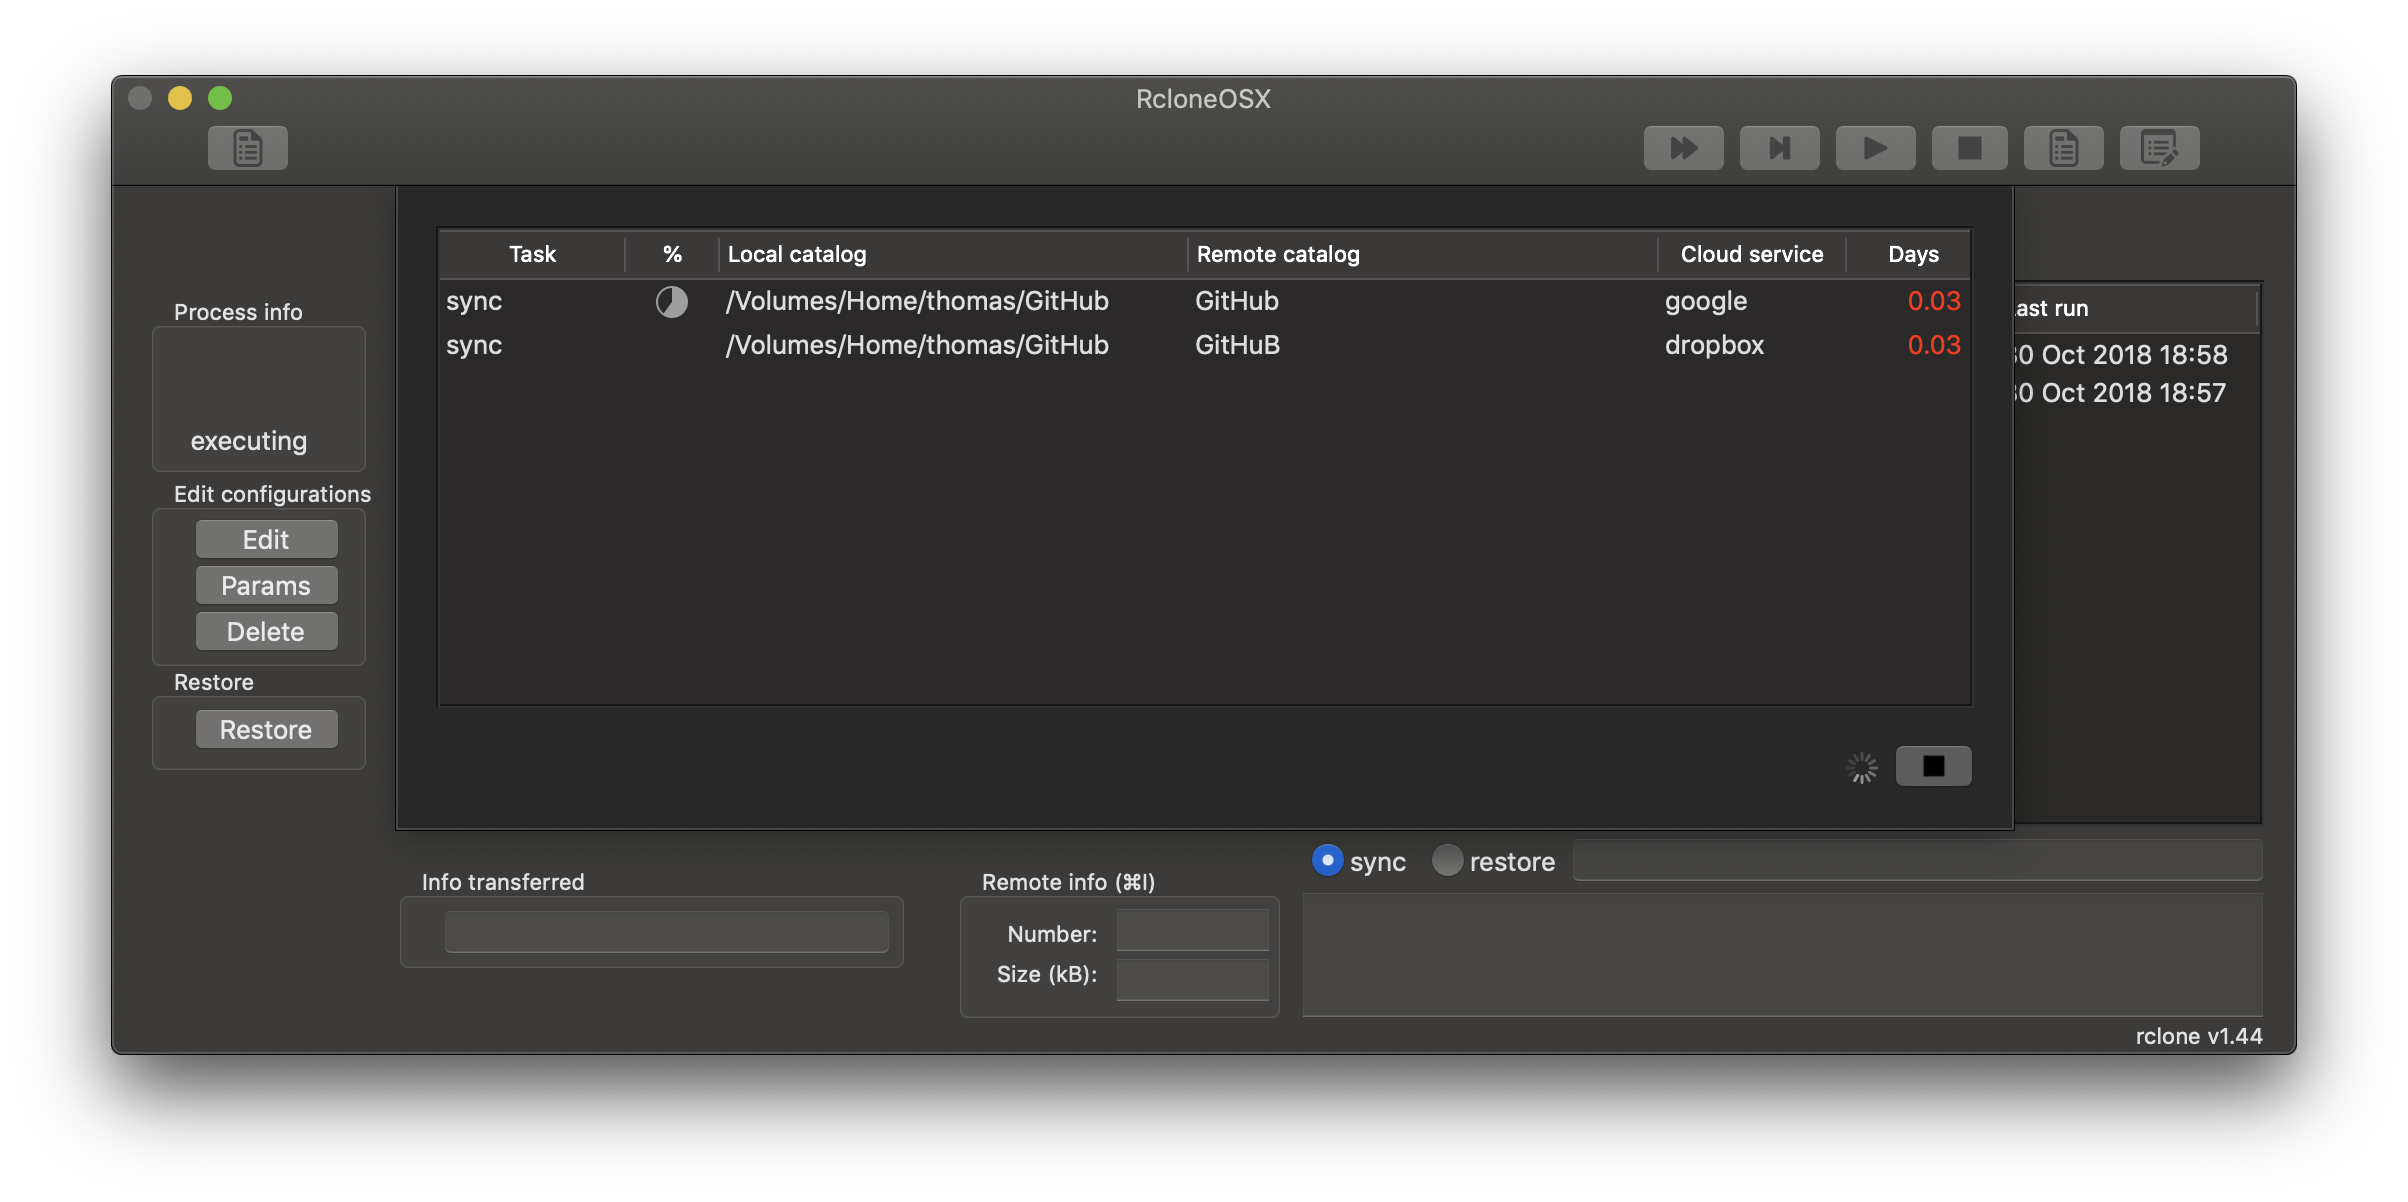
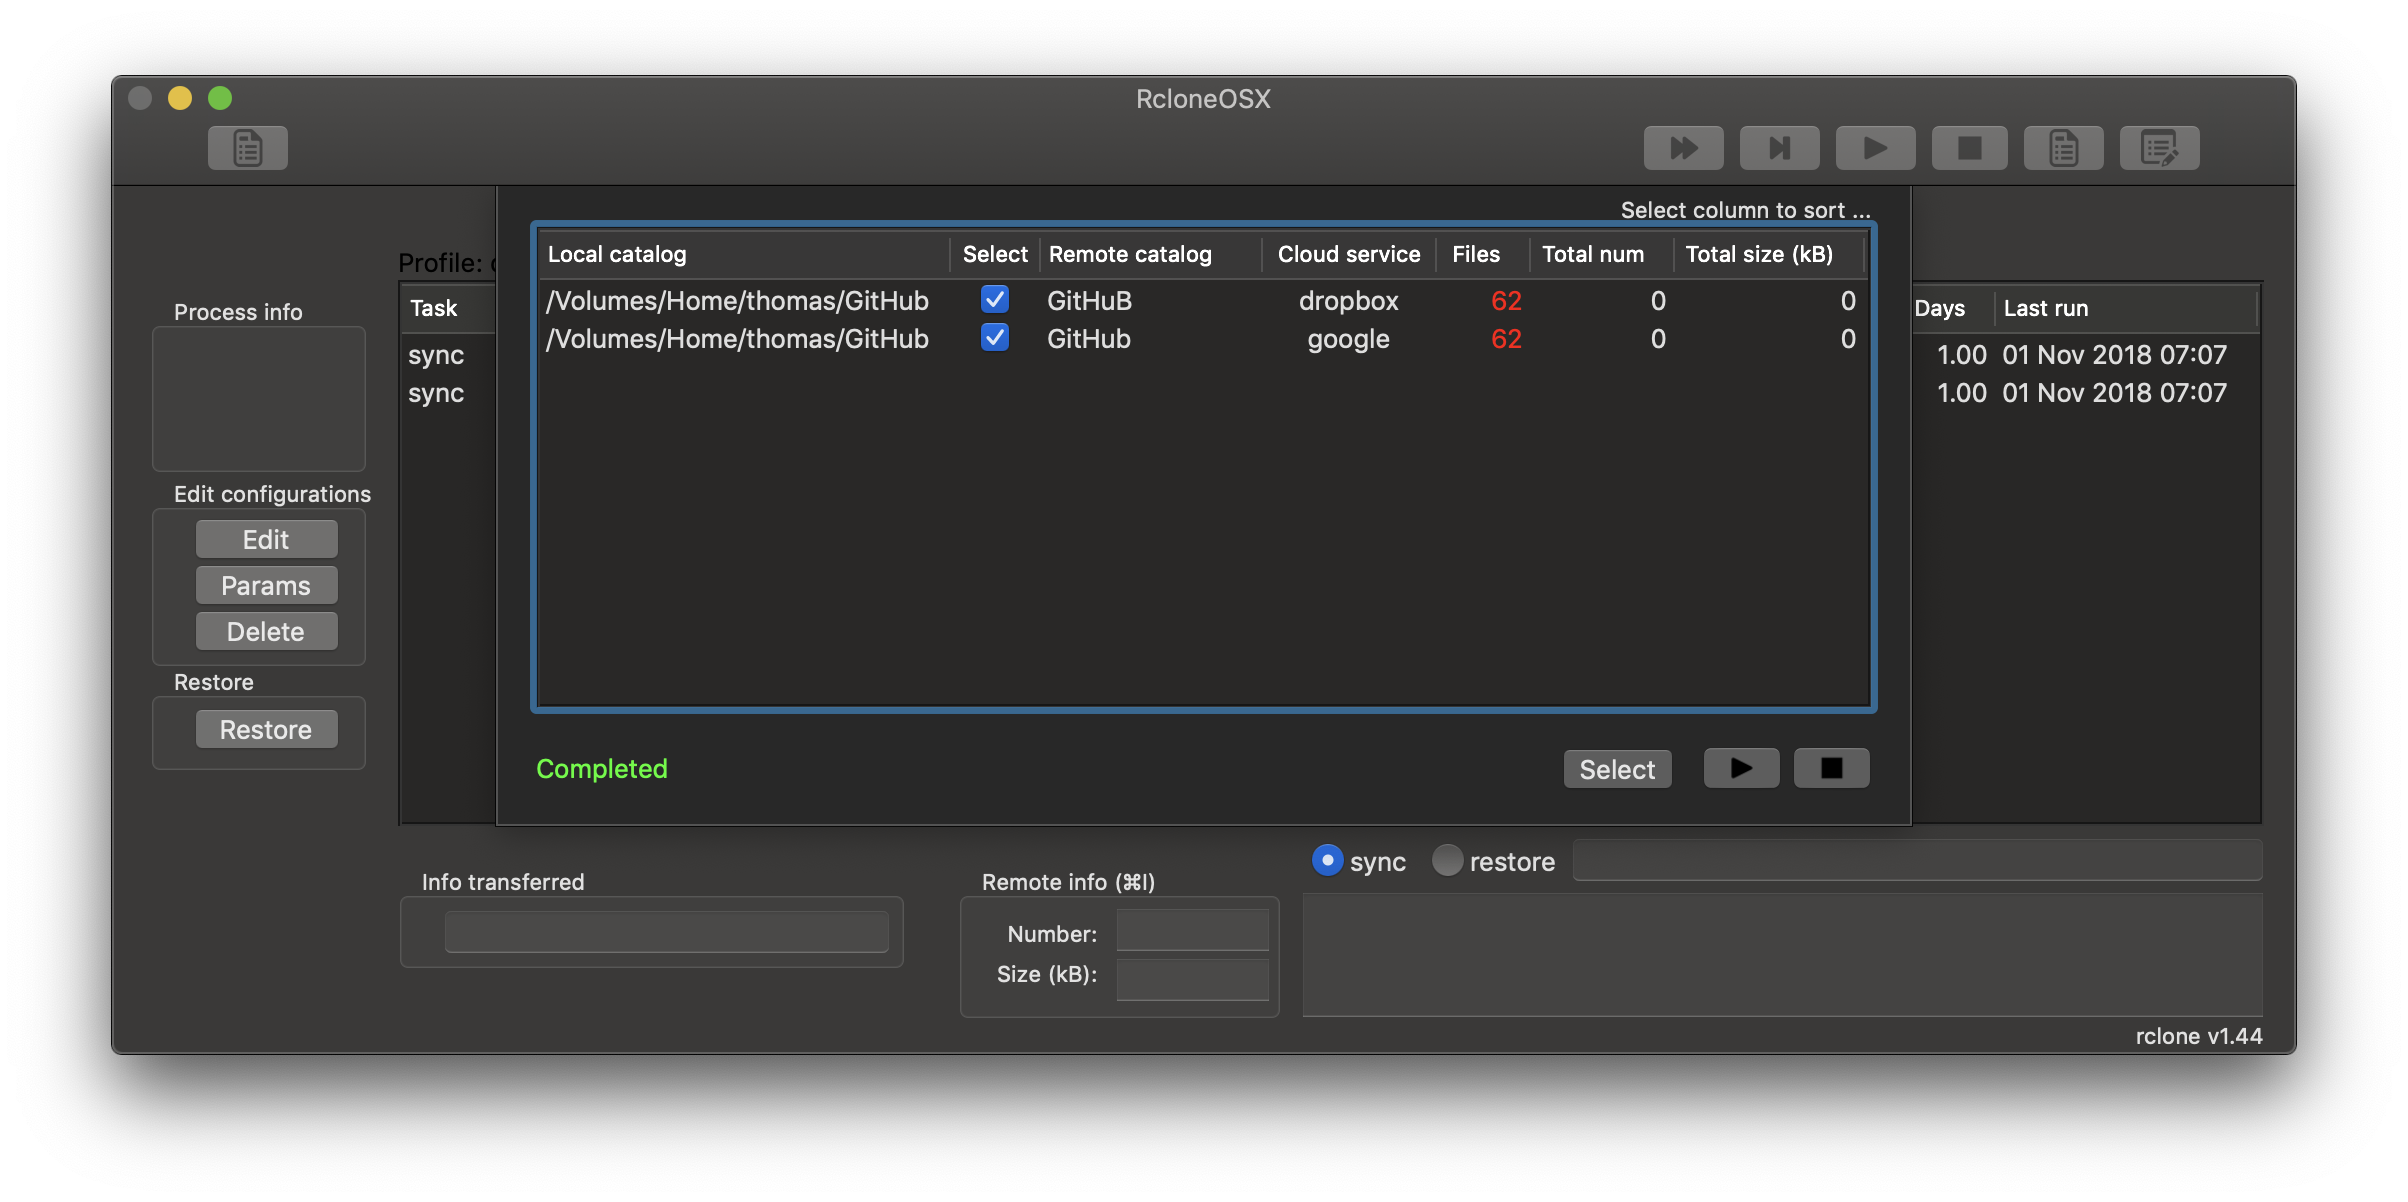
update readme

diff --git a/README.md b/README.md
@@ -14,8 +14,10 @@ To get an idea of how RcloneOSX is working please see the [intro](https://rsynco
 
 The main view of RcloneOSX.
 ![](images/main1.png)
-Automatic synchronizing in action.
+Estimation of task for sync completed.
 ![](images/main2.png)
+Sync of task in action.
+![](images/main3.png)
 
 ### Application icon
 
